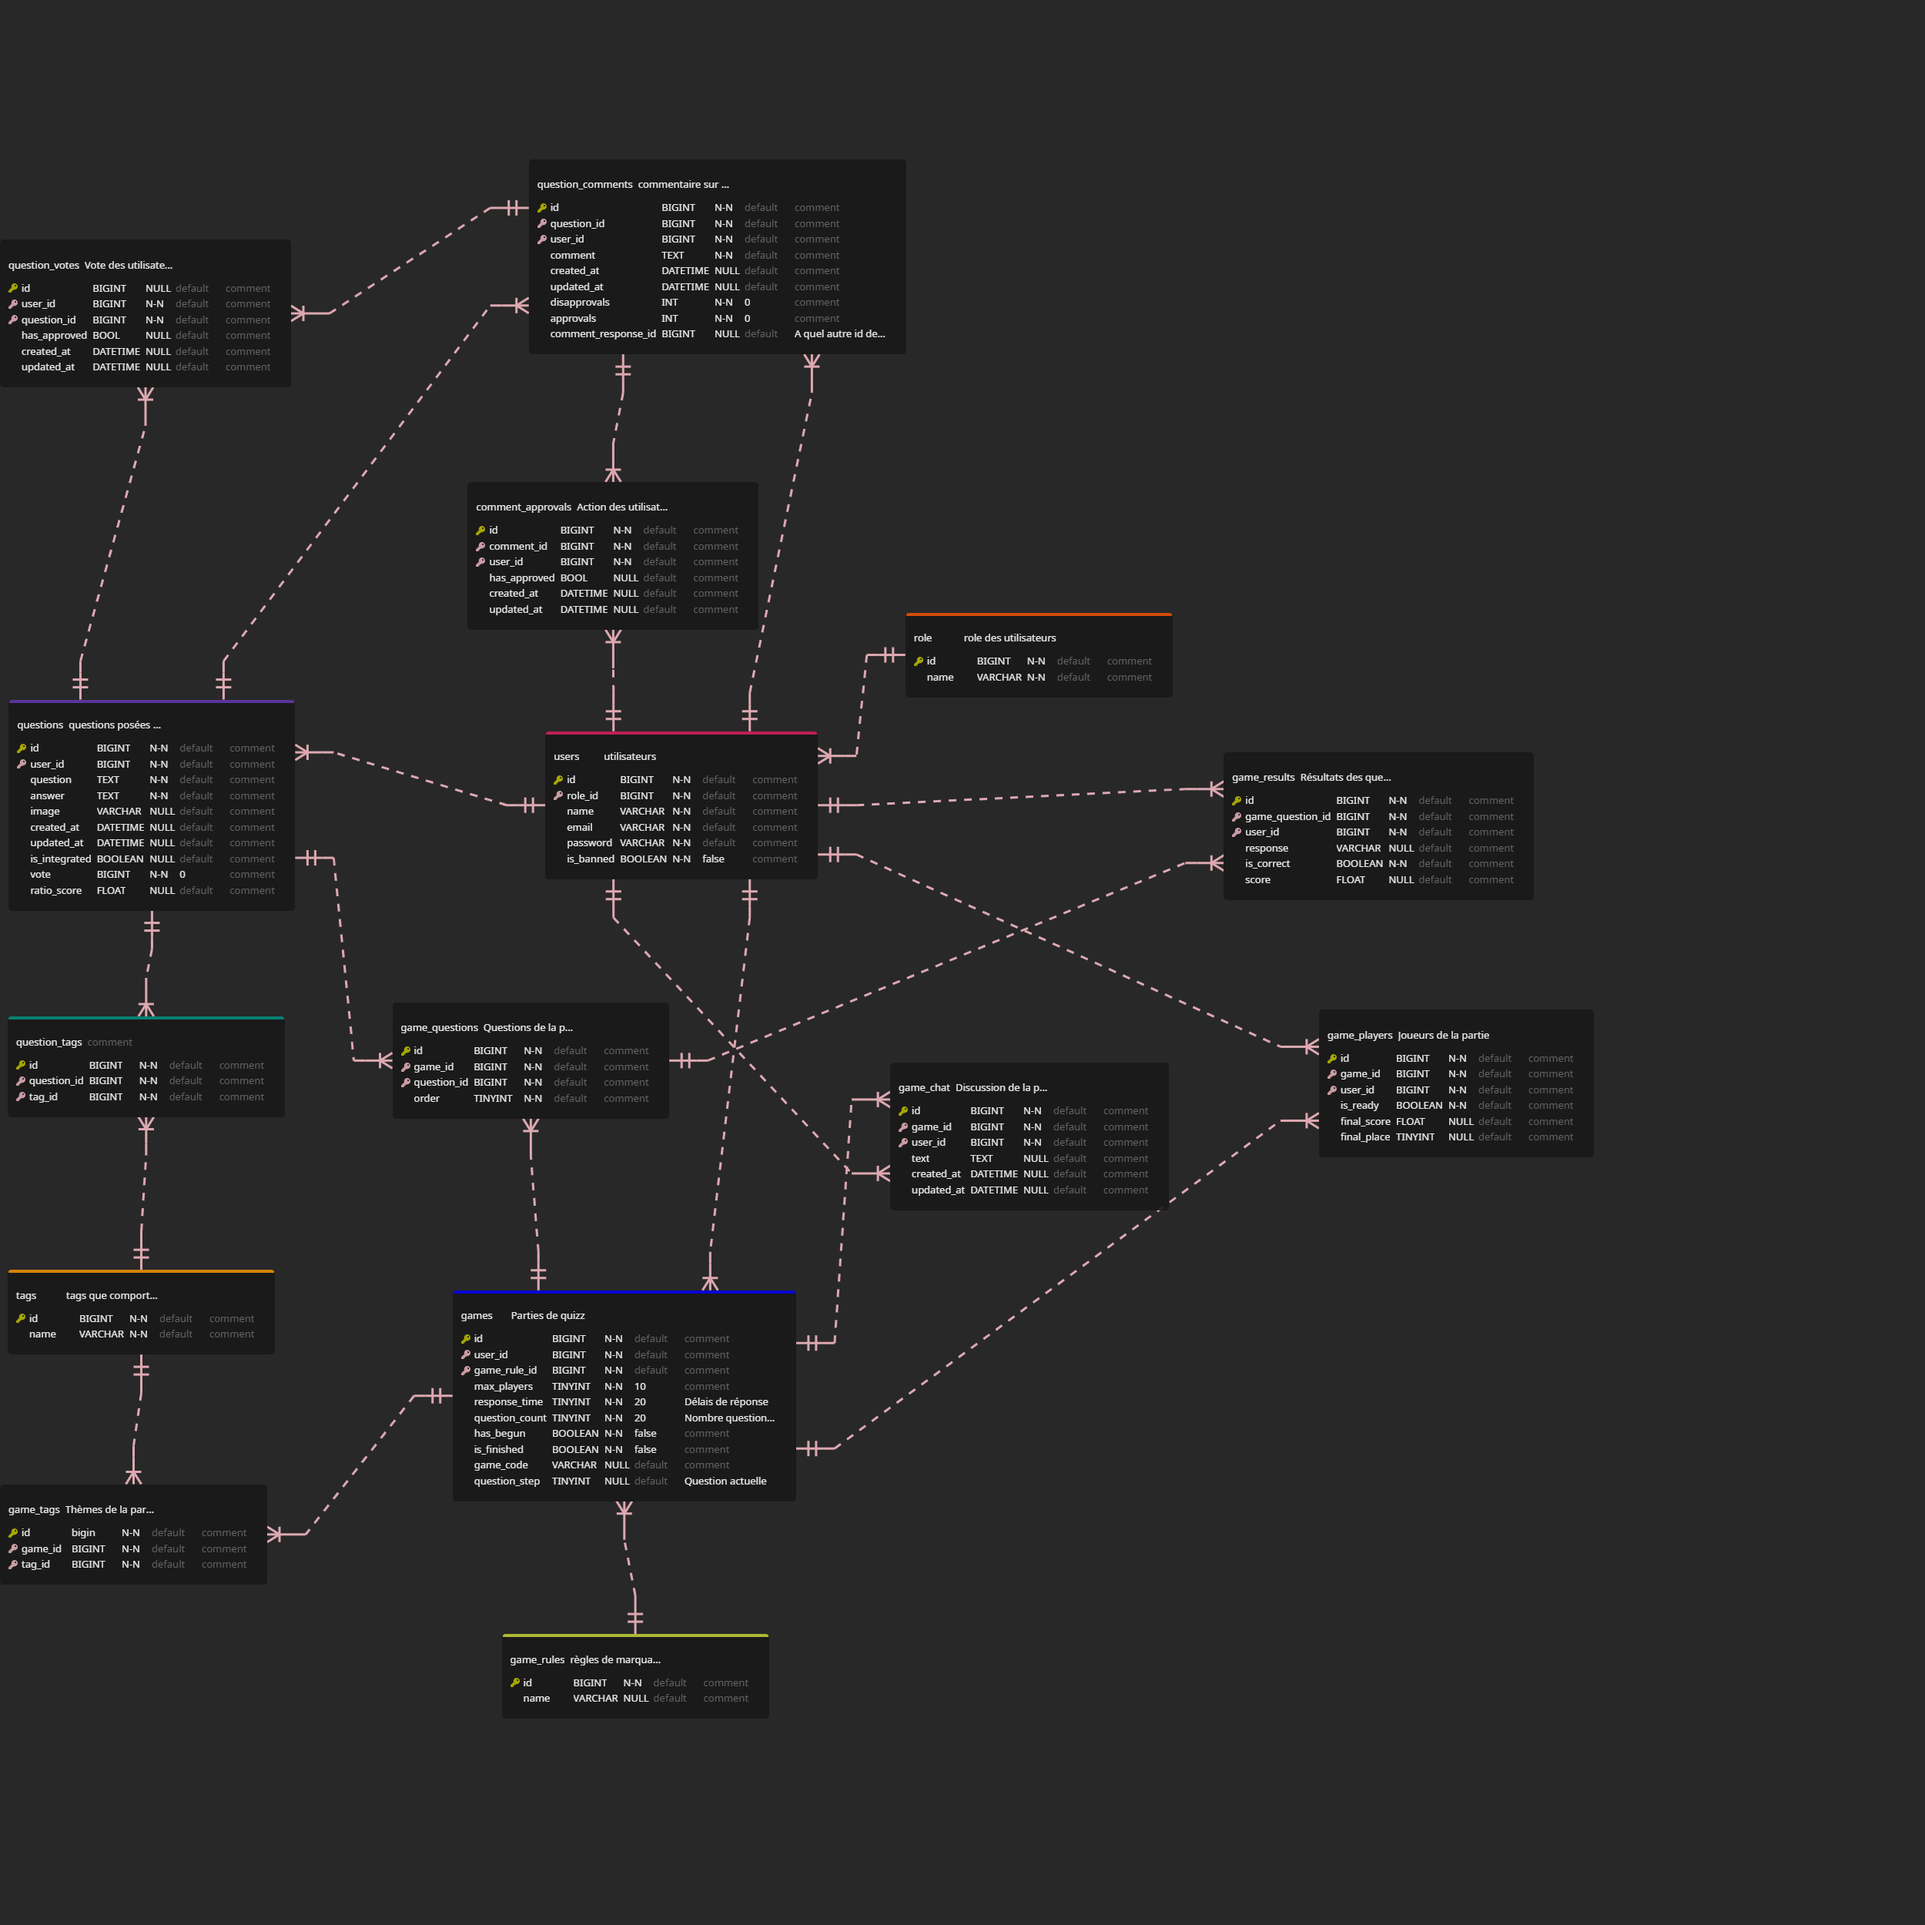
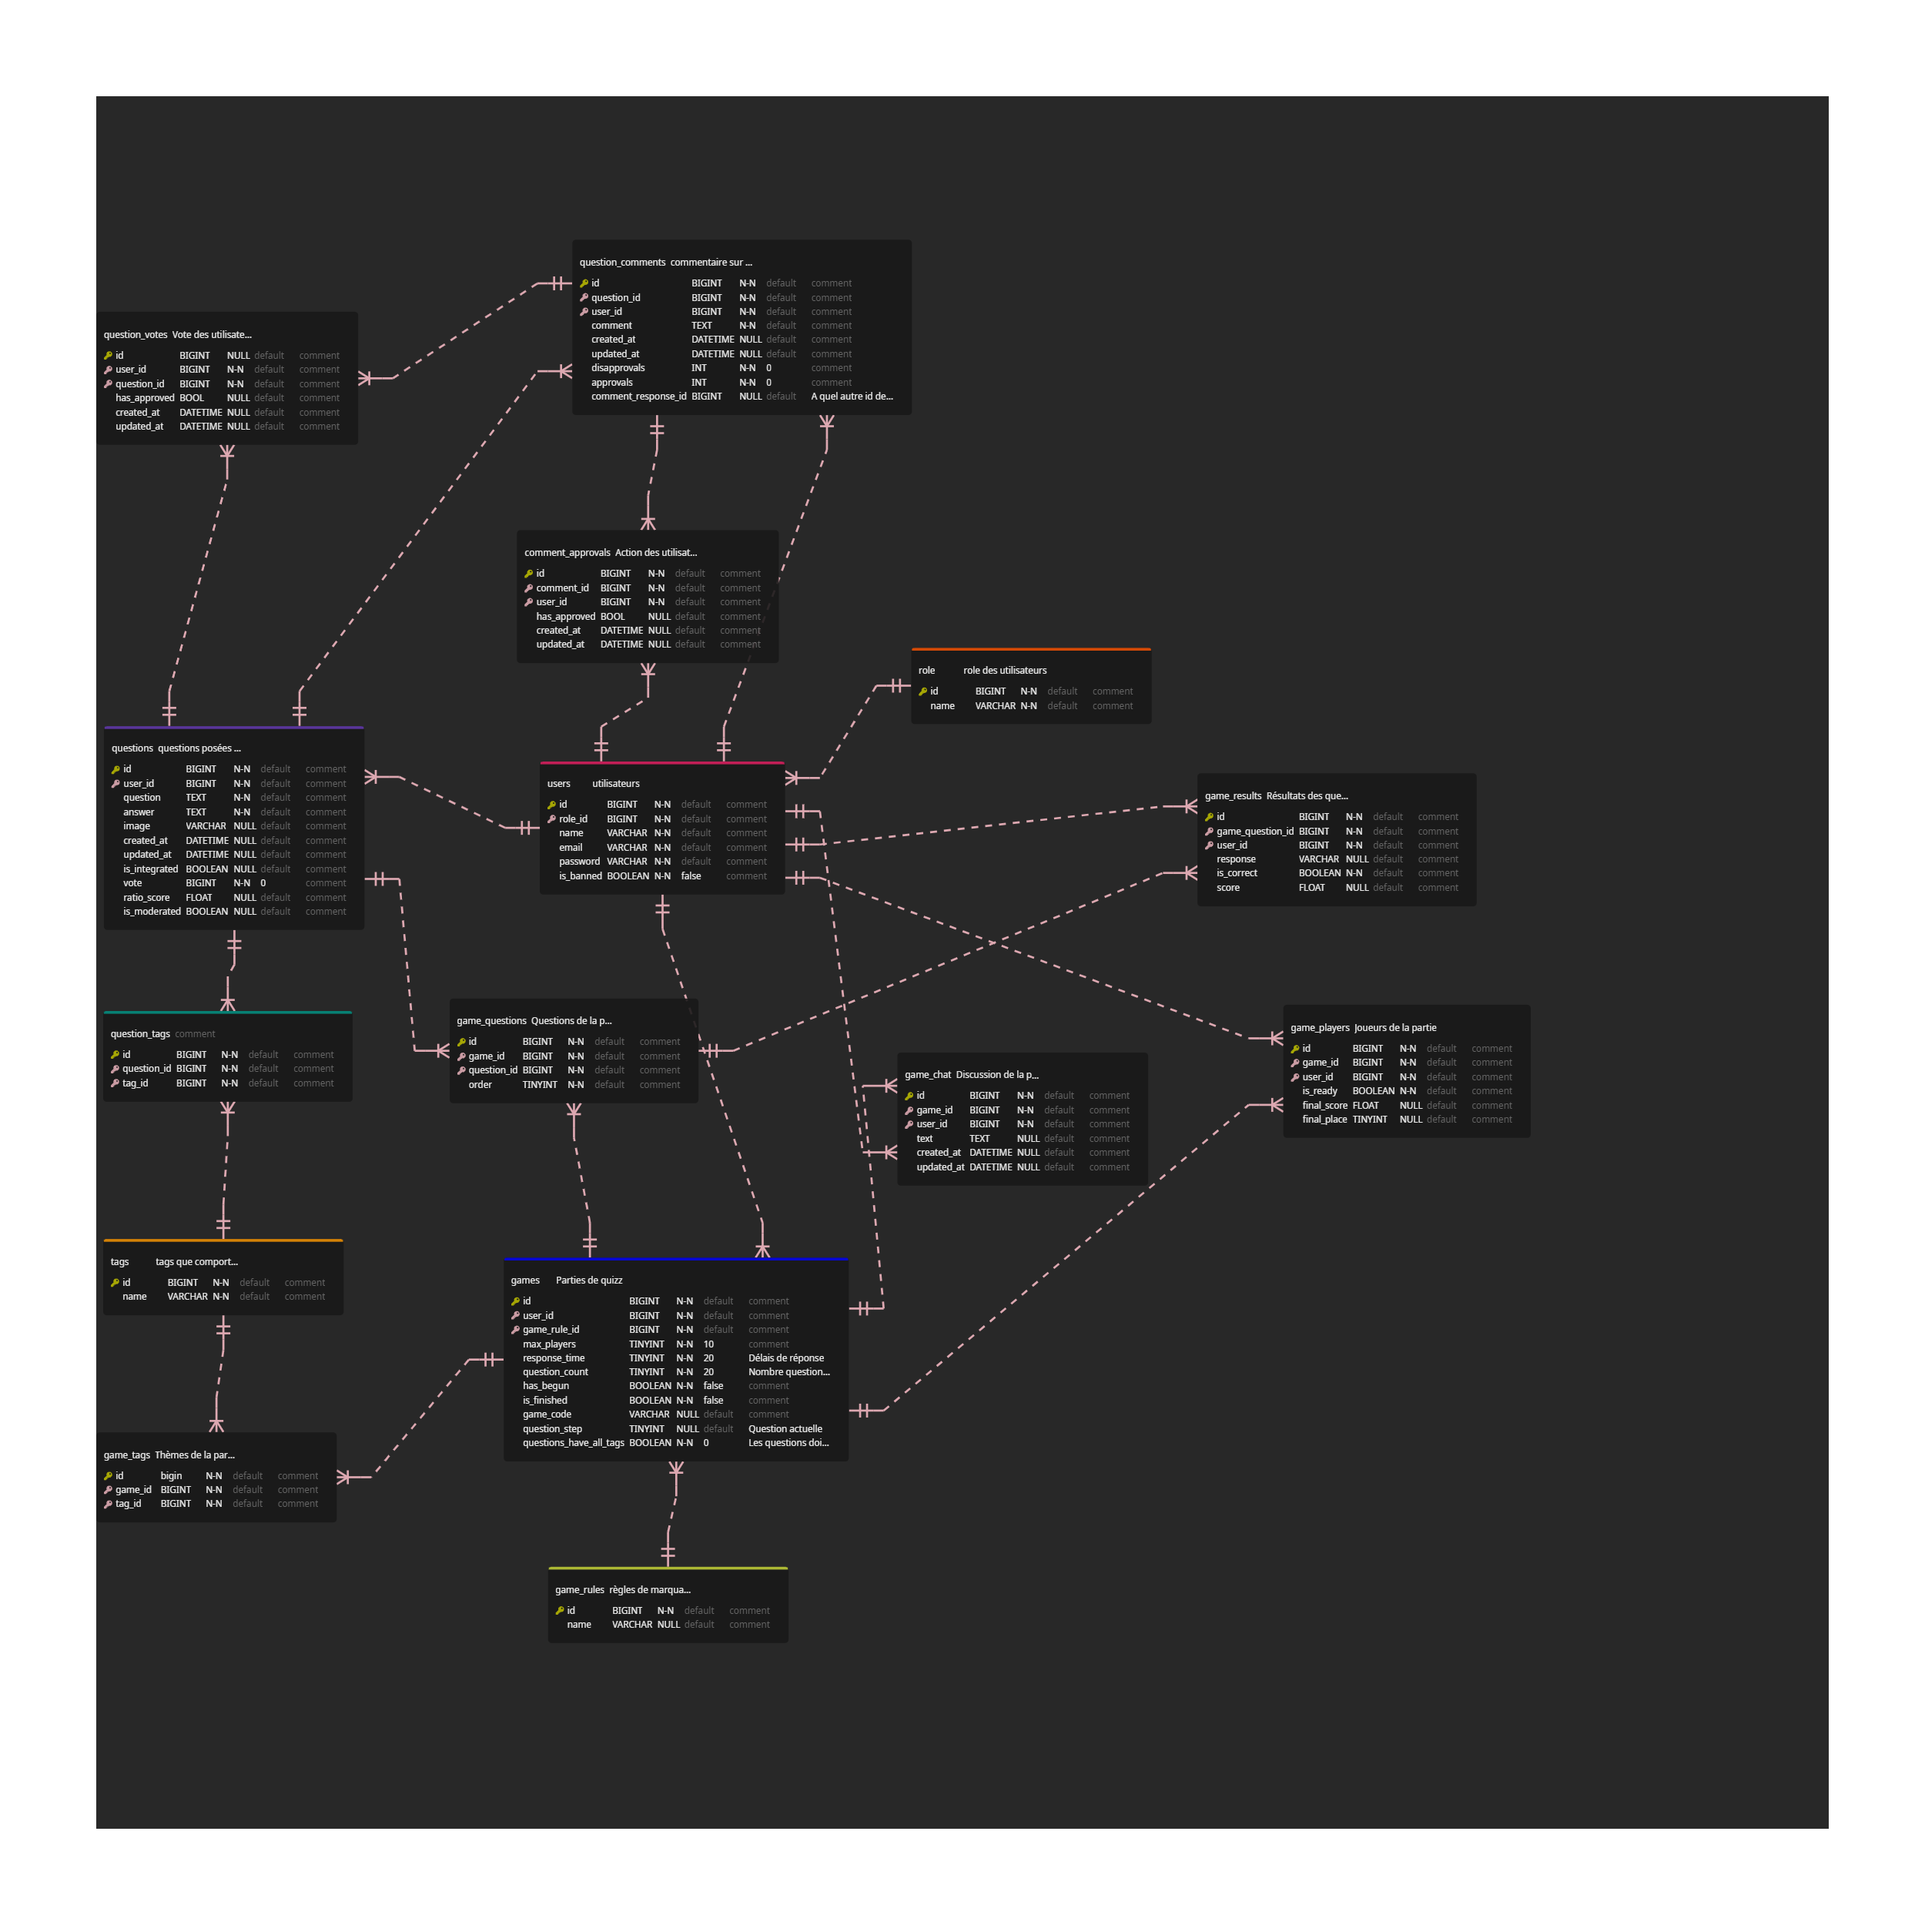
Parties - Ajout champ have_all_tags > les questions doivent comporter au moins un des thèmes associés ou l'ensemble To Do: Seeds - Refactoring

diff --git a/database/seeders/GameQuestionSeeder.php b/database/seeders/GameQuestionSeeder.php
@@ -4,8 +4,11 @@ namespace Database\Seeders;
 
 use App\Models\Game;
 use App\Models\GameQuestion;
+use App\Models\GameTag;
 use App\Models\Question;
+use App\Models\QuestionTag;
 use Illuminate\Database\Console\Seeds\WithoutModelEvents;
+use Illuminate\Database\Eloquent\Builder;
 use Illuminate\Database\Seeder;
 
 class GameQuestionSeeder extends Seeder
@@ -20,16 +23,69 @@ class GameQuestionSeeder extends Seeder
 
         // Parcours de toutes les parties
         $games = Game::all();
-        foreach($games as $game) {
+        foreach ($games as $game) {
+            $questionsIdsGame = [];
             // Attribution des questions selon le nombre de questions défini
-            for ($i=1; $i <= $game->question_count; $i++) {
-                GameQuestion::create([
-                    'game_id' => $game->id,
-                    'question_id' => Question::inRandomOrder()->first()->id,
-                    'order' => $i
-                ]);
-            } 
-        } 
+            for ($i = 1; $i <= $game->question_count; $i++) {
+                // Quels sont tous les thèmes associés de la partie?
+                $tagIds = GameTag::where('game_id', $game->id)->get()->pluck('tag_id');
+                // Si la partie demande des questions qui ont tous les thèmes associés
+                if ($game->questions_have_all_tags == true) {
+                    // Quels sont les thèmes de la partie?
+                    $gameTags = GameTag::where('game_id', $game->id)->get();
+                    // On va créer une nouvelle question automatiquement modérée et intégrée
+                    $newQuestion = Question::factory()->create([
+                        'is_moderated' => true,
+                        'is_integrated' => true
+                    ]);
+                    // On va attribuer à cette nouvelle question tous les tags de la partie
+                    foreach ($gameTags as $gameTag) {
+                        QuestionTag::create([
+                            'question_id' => $newQuestion->id,
+                            'tag_id' => $gameTag->tag_id
+                        ]);
+                    }
+                    // Attribution de la nouvelle question à la partie
+                    GameQuestion::create([
+                        'game_id' => $game->id,
+                        'question_id' => $newQuestion->id,
+                        'order' => $i
+                    ]);
+                    // On ajout l'id de la question au tableau pour ne pas la reprendre
+                    $questionsIdsGame[] = $newQuestion->id;
+                }
+                // Si il faut une question qui possède au moins un tag de la partie
+                else {
+                    $question = Question::where('is_integrated', true)->whereHas('tags', function (Builder $query) use ($tagIds) {
+                        $query->whereIn('tag_id', $tagIds);
+                    })->whereNotIn('id', $questionsIdsGame)->inRandomOrder()->firstOr(function () use ($tagIds, $game, $i) {
+                        $newQuestion = Question::where('is_integrated', true)->inRandomOrder()->first();
+                        // Si on a pas de question avec au moins un thème approprié, on en créé un
+                        QuestionTag::create([
+                            'question_id' => $newQuestion->id,
+                            'tag_id' => fake()->randomElement($tagIds)
+                        ]);
+                        GameQuestion::create([
+                            'game_id' => $game->id,
+                            'question_id' => $newQuestion->id,
+                            'order' => $i
+                        ]);
+                        // On ajout l'id de la question au tableau pour ne pas la reprendre
+                        $questionsIdsGame[] = $newQuestion->id;
+                    });
 
+                    // Si on a bien une question trouvée
+                    if (!empty($question)) {
+                        GameQuestion::create([
+                            'game_id' => $game->id,
+                            'question_id' => $question->id,
+                            'order' => $i
+                        ]);
+                        // On ajout l'id de la question au tableau pour ne pas la reprendre
+                        $questionsIdsGame[] = $question->id;
+                    }
+                }
+            }
+        }
     }
 }

diff --git a/database/factories/GameFactory.php b/database/factories/GameFactory.php
@@ -20,6 +20,7 @@ class GameFactory extends Factory
     {
         $questionCount = rand(5, 15);
         $hasBegun = fake()->boolean(90);
+        // Si la partie a commencé
         $isFinished = $hasBegun == 1 ? fake()->boolean(90) : 0;
         if ($isFinished == 1) {
             $questionStep = $questionCount;
@@ -34,6 +35,7 @@ class GameFactory extends Factory
             'max_players' => rand(1, 20),
             'response_time' => rand(10, 20),
             'question_count' => $questionCount,
+            'questions_have_all_tags' => fake()->boolean(50),
             'has_begun' => $hasBegun,
             'is_finished' => $isFinished,
             'game_code' => fake()->unique()->isbn13(),

diff --git a/database/migrations/2022_07_20_225017_create_games_table.php b/database/migrations/2022_07_20_225017_create_games_table.php
@@ -28,6 +28,7 @@ return new class extends Migration
             $table->tinyInteger('question_count')->default('20');
             $table->tinyInteger('question_step')->nullable();
             $table->boolean('has_begun');
+            $table->boolean('questions_have_all_tags')->default('0');
             $table->boolean('is_finished');
             $table->string('game_code')->nullable();
             $table->timestamps();

diff --git a/app/Models/Question.php b/app/Models/Question.php
@@ -61,4 +61,7 @@ class Question extends Model
     {
         return $this->hasMany(QuestionComment::class)->where('comment_id', null)->orderBy('created_at', 'ASC');
     }
+
+
+
 }
